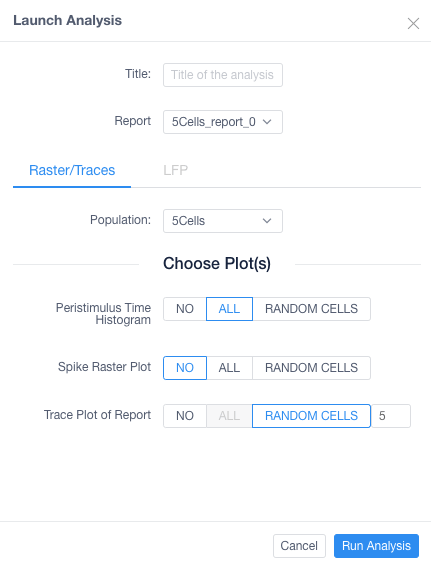
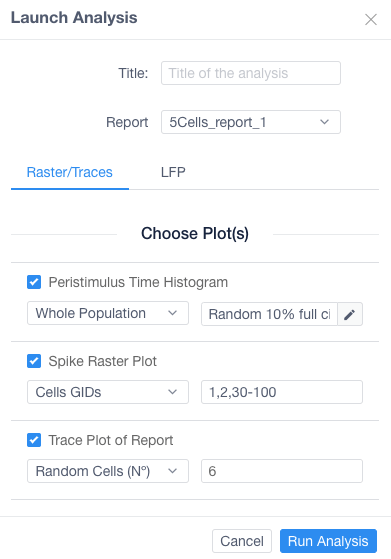
Update analysis modal

diff --git a/source/online_usecases/brain_area_circuit_in_silico_experiments/hippocampus/configure_run_brainregion_preconf_model_data/configure_run_brainregion_preconf_model_data.rst b/source/online_usecases/brain_area_circuit_in_silico_experiments/hippocampus/configure_run_brainregion_preconf_model_data/configure_run_brainregion_preconf_model_data.rst
@@ -134,12 +134,24 @@ In the **Section 2)** you are able to:
 -  ``Analyse`` will open a form to configure the parameters before executing the analysis on the supercomputer
 
    -  *Title*: Title of the job
-   -  *Analysis*: Type of analysis to run
-   -  *Population*: Population cells used for the simulation
    -  *Report*: Report created by the simulation
-   -  *Cells*: Number of random cells to analyze
+   -  *Raster / Traces*: (Basic Analysis) Type of analysis to run
+         -  *Whole Population*: Population cells
+         -  *Cells GIDs*: Specify single GID and/or ranges of GIDs
+         -  *Random Cells*: Amount of random cells (from the report) to analyze
+
 
       |run_analysis_form|
+
+
+   -  *LFP*: (Advanced Analysis) Type of analysis to run
+         -  *Population*: Population cells
+         -  *Plots*: Type of plots to get as a result of the LFP calculation
+         -  *Duration*: Start and End duration of the LFP calculation
+         -  *Points*: Either write or upload a file with points to calculate LFP
+
+      |run_lfp_analysis_form|
+
 
 -  ``Delete`` the simulation
 
@@ -192,5 +204,6 @@ The ``Analysis`` section shows the different analyses the user has run
 .. |block| image:: images/block.png
 .. |error| image:: images/error.png
 .. |run_analysis_form| image:: images/run_analysis_form.png
+.. |run_lfp_analysis_form| image:: images/run_lfp_analysis_form.png
 .. |simulation_details| image:: images/simulation_details.png
 .. |simulation_details_analysis| image:: images/simulation_details_analysis.png
